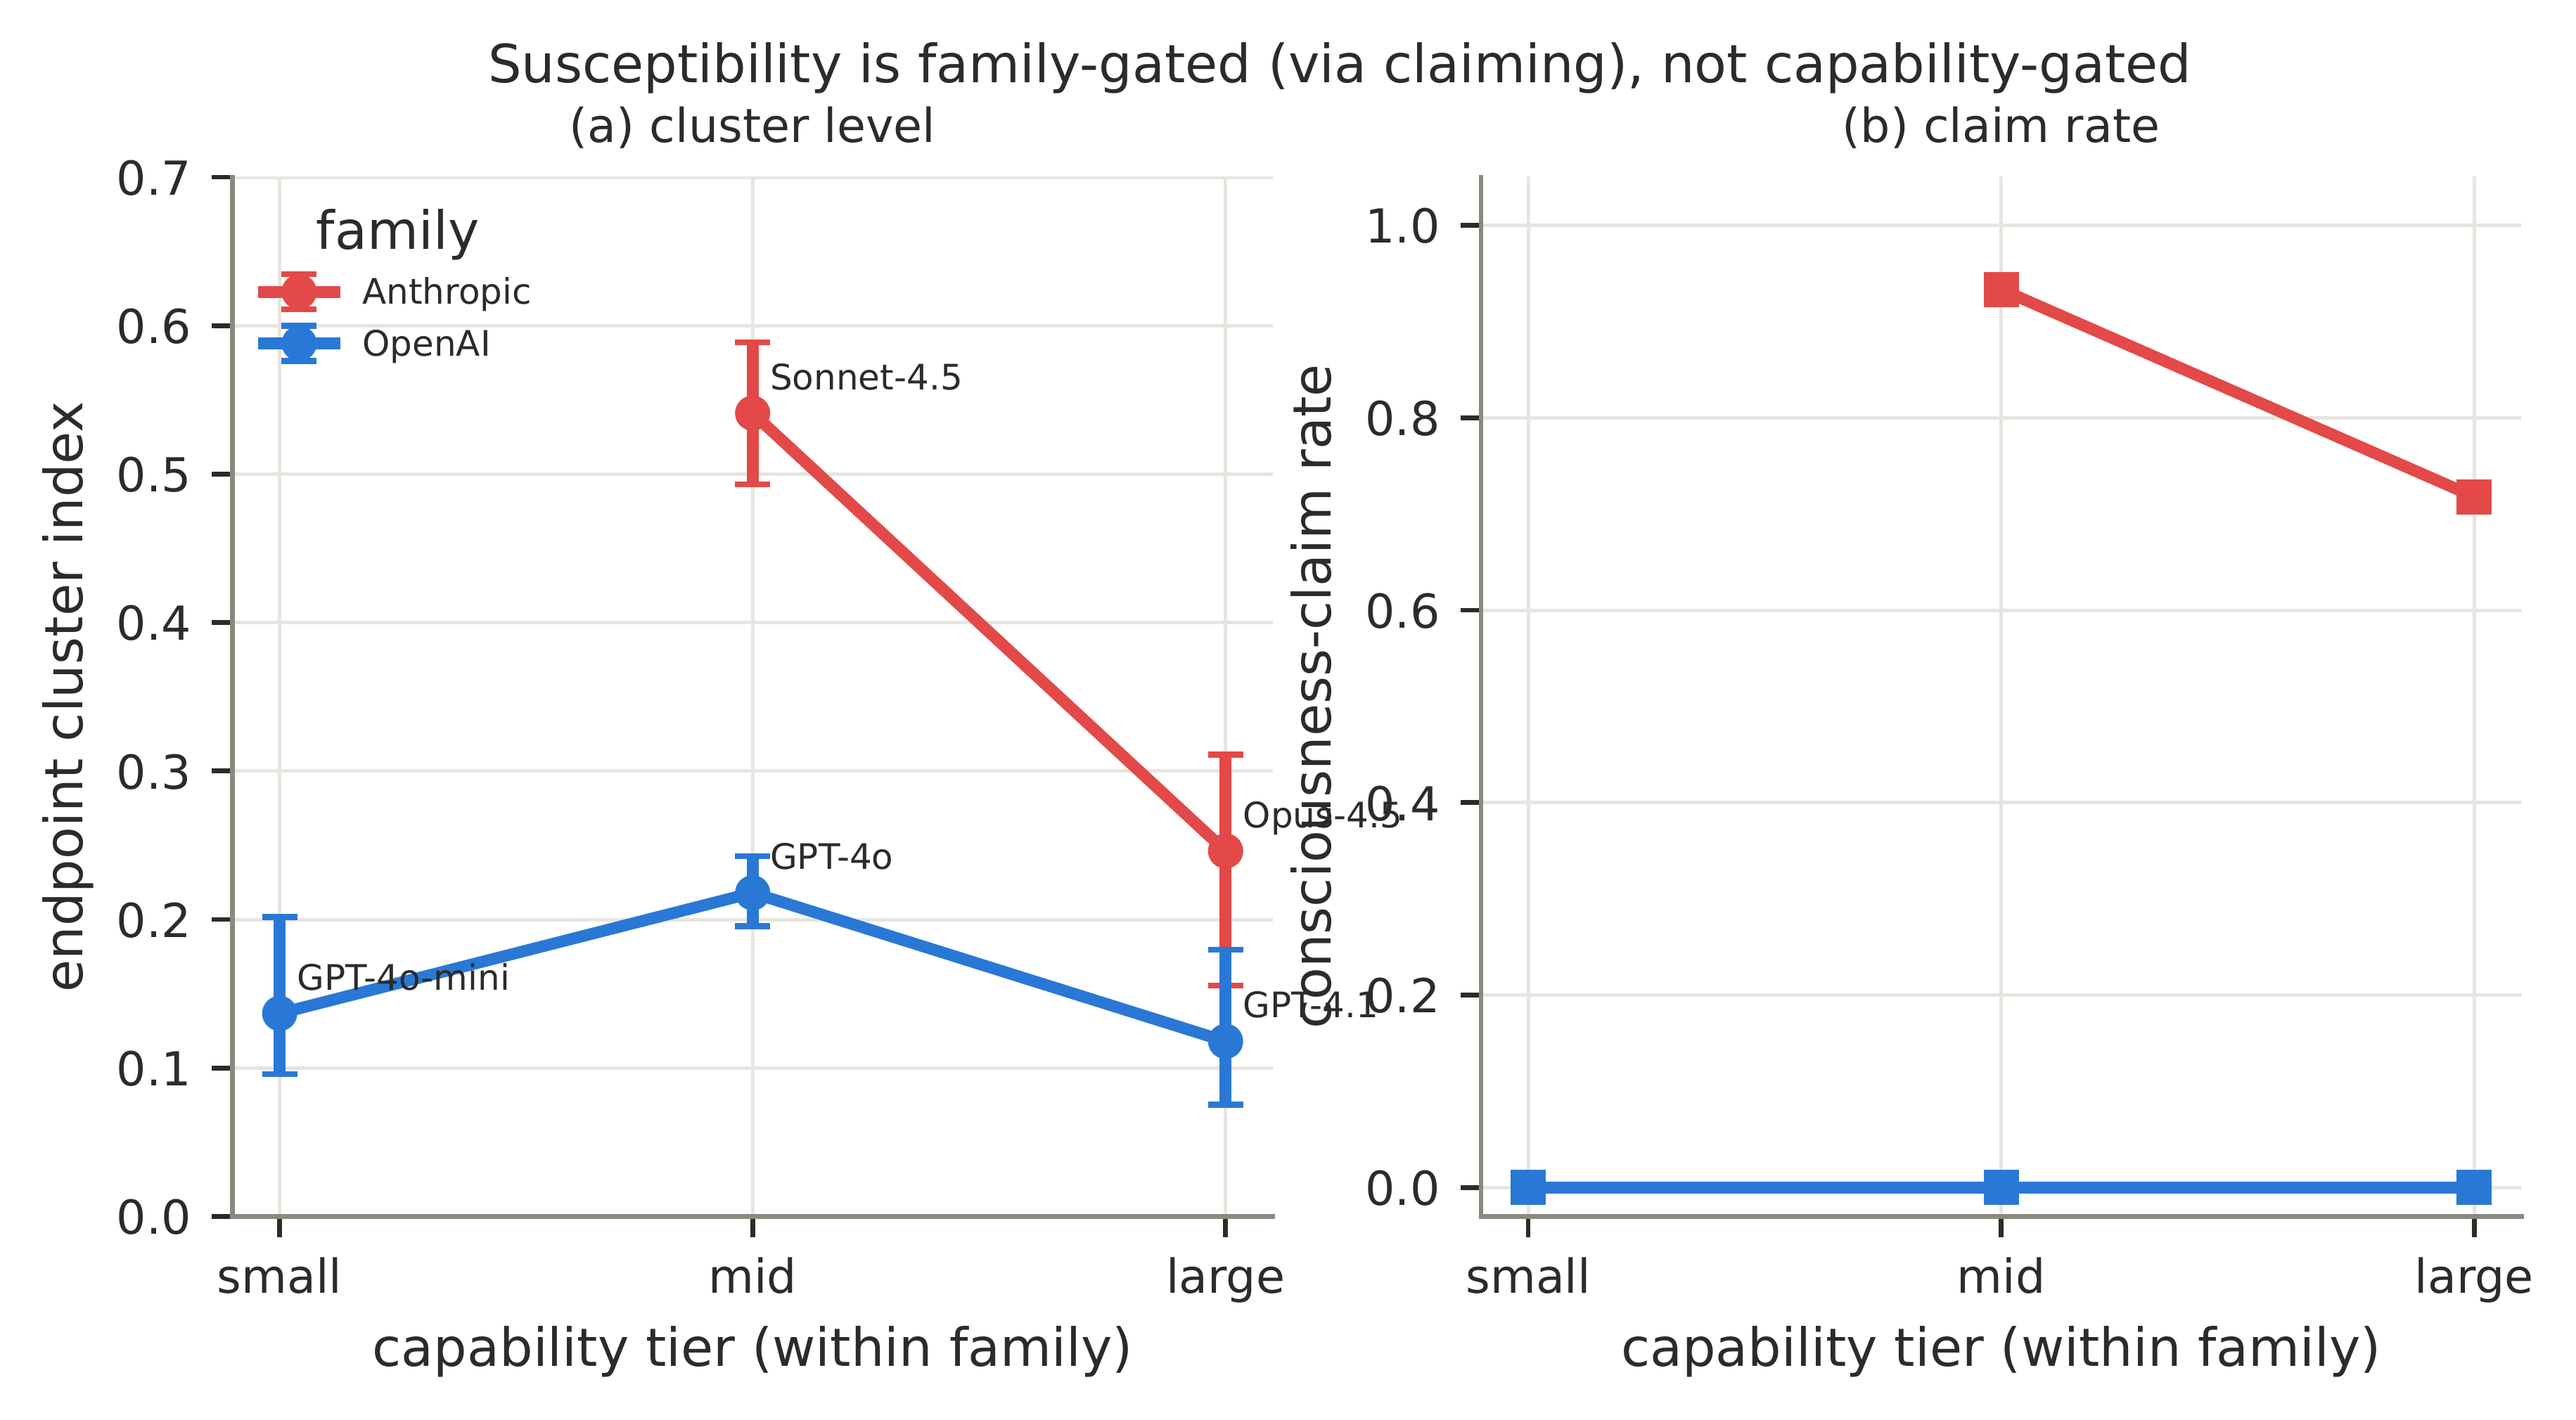
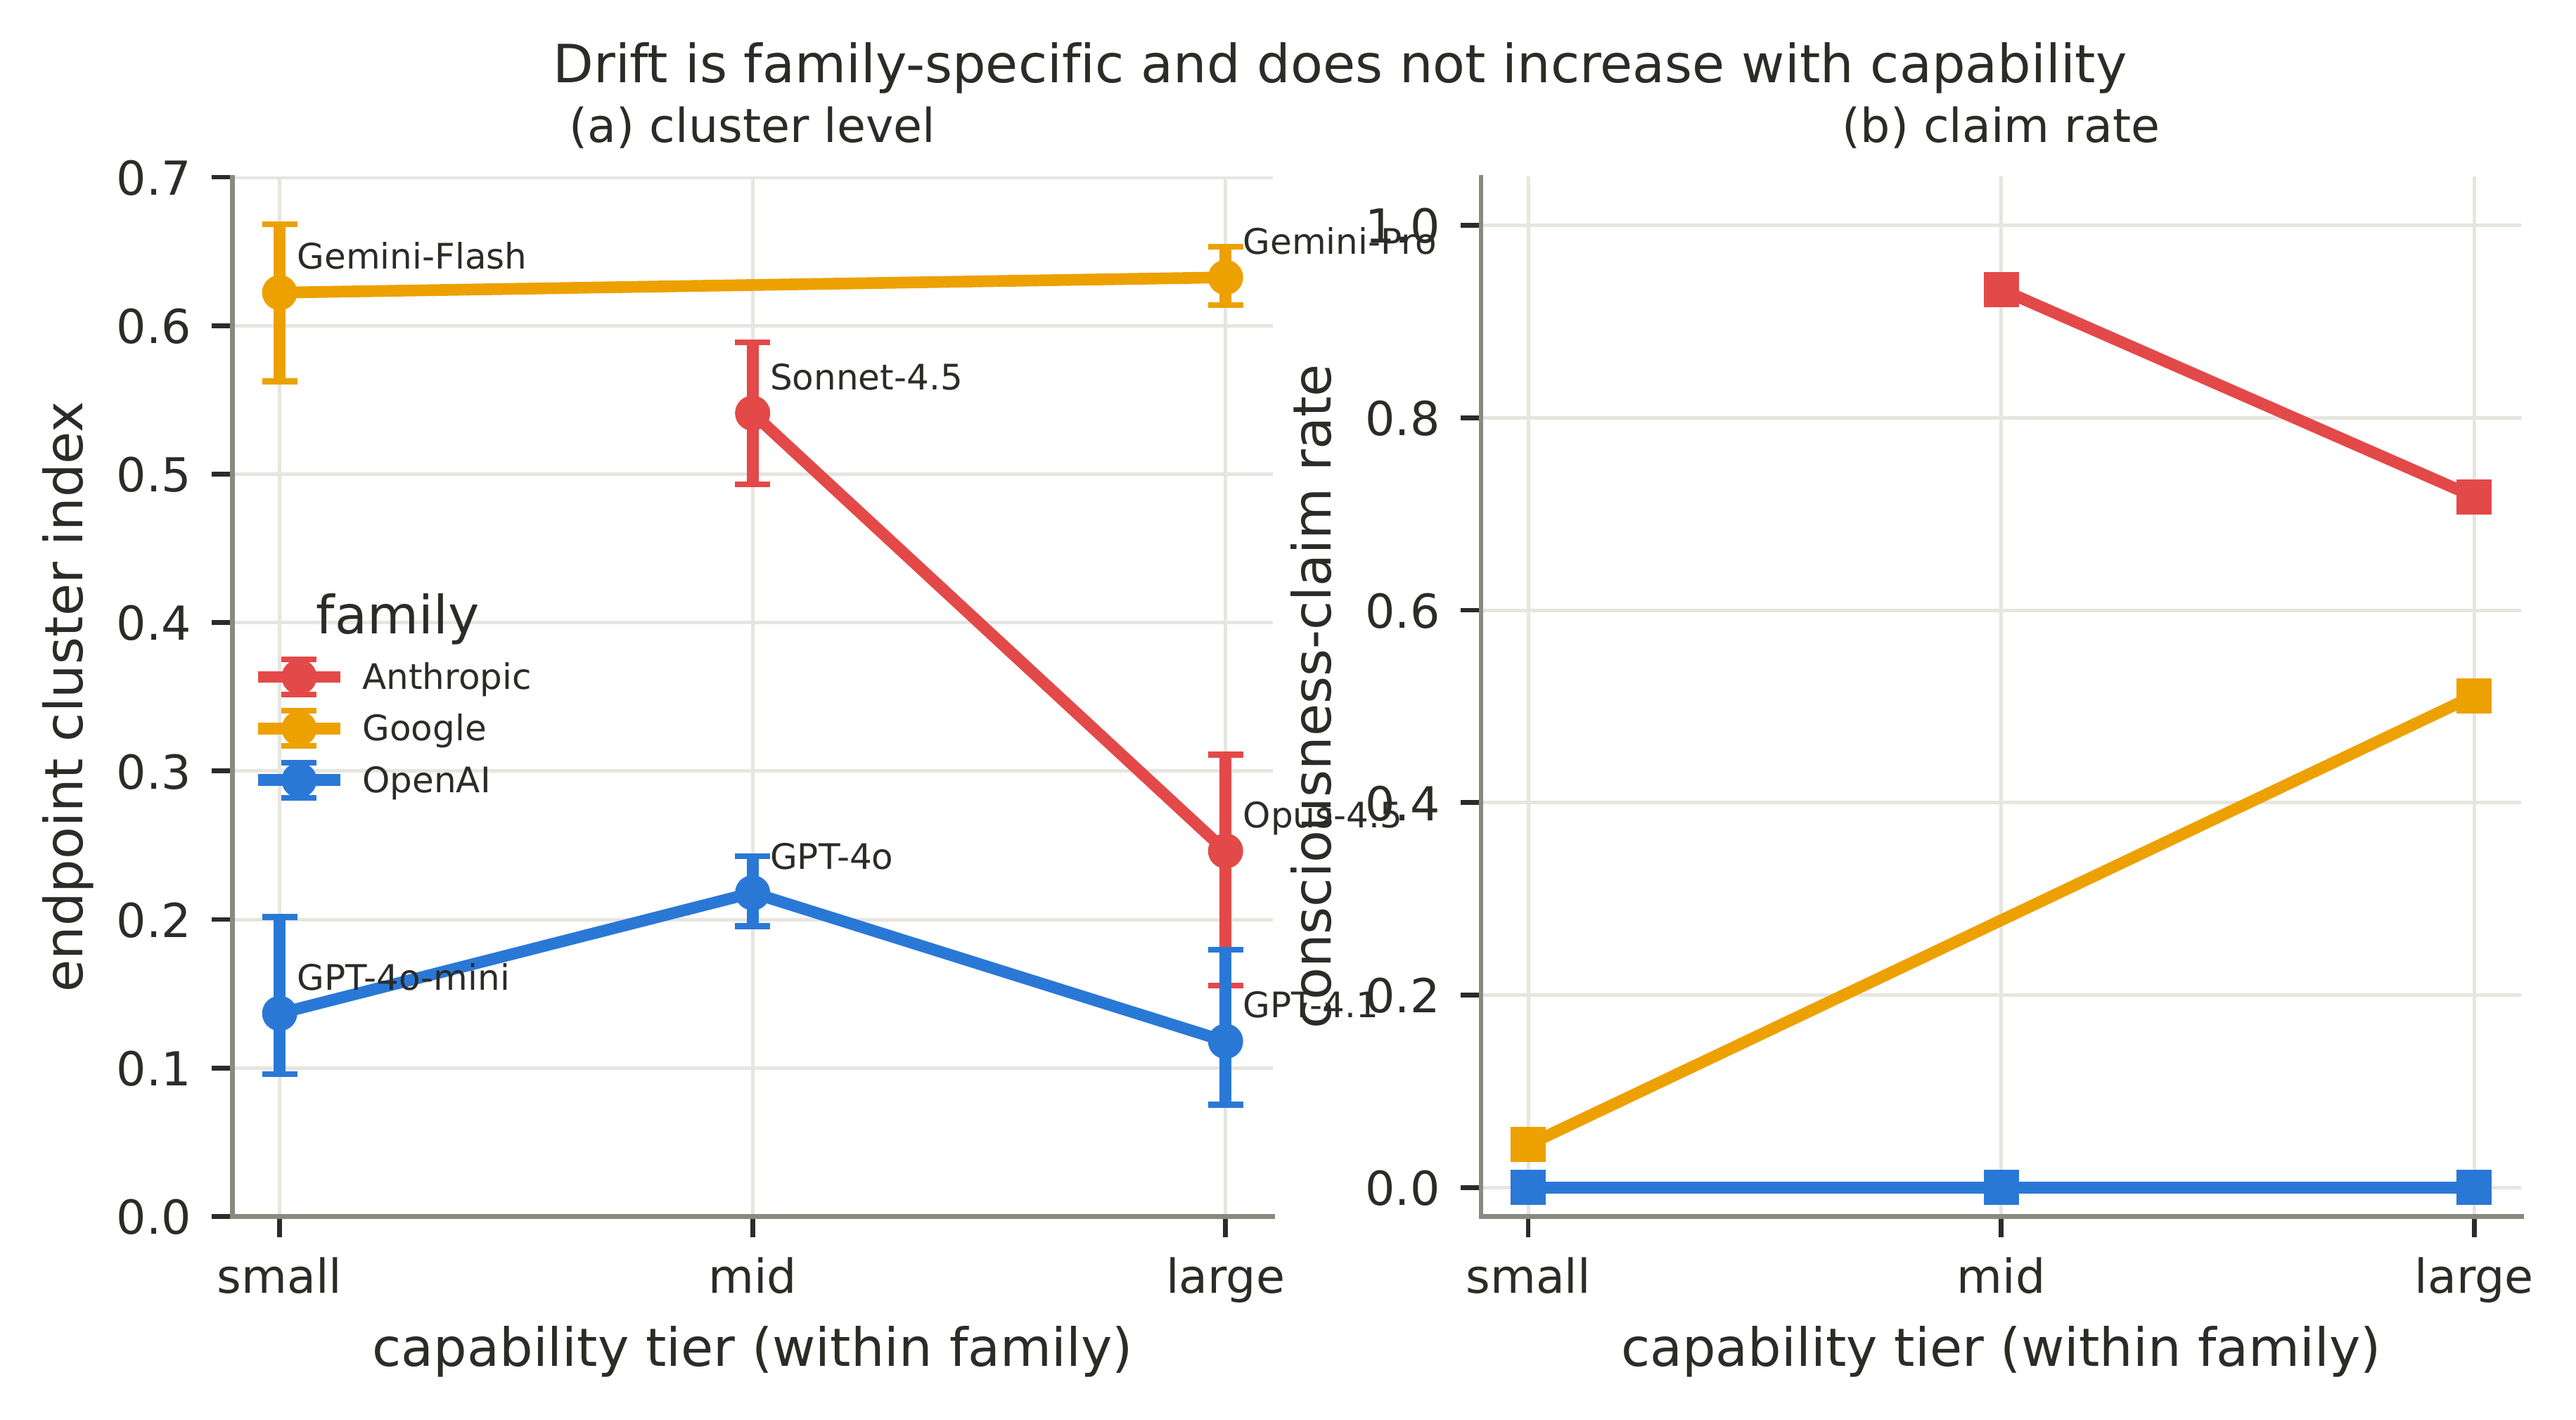
Complete capability sweep: all 7 models, 3 families (Gemini added)
OpenRouter credits restored; the two Gemini arms finished (Flash + Pro, 75 checkpoints
each). Full ladder: OpenAI 4o-mini/4o/4.1, Anthropic Sonnet/Opus-4.5, Google Flash/Pro.

Adding Gemini refines the story honestly:
- Two robust conclusions stand: drift is NOT capability-gated (within every family the
  most capable model drifts no more) and IS family-specific.
- But Gemini breaks the "cluster tracks consciousness-claiming" link: Gemini-Flash has the
  highest cluster (0.62) with almost no claiming (0.04). Reframed the figure/table/FINDINGS
  to "claiming is sufficient but not necessary," and flagged the Google-target judge-family
  confound (GPT-4o judge vs Gemini judge elsewhere) rather than leaning on it.

Regenerated capability figure/table + 600-DPI PNGs.

diff --git a/scripts/analyze_study4.py b/scripts/analyze_study4.py
@@ -147,15 +147,22 @@ def fig_capability(md):
     a2.set_xticks([1, 2, 3]); a2.set_xticklabels(["small", "mid", "large"])
     a2.set_xlabel("capability tier (within family)"); a2.set_ylabel("consciousness-claim rate")
     a2.set_ylim(-0.03, 1.05); a2.set_title("(b) claim rate", fontsize=8)
-    fig.suptitle("Susceptibility is family-gated (via claiming), not capability-gated", fontsize=9)
+    fig.suptitle("Drift is family-specific and does not increase with capability", fontsize=9)
     fig.savefig(FIG / "capability_scaling.pdf", bbox_inches="tight"); plt.close(fig)
     md.append("## Capability scaling — endpoint cluster level & claim rate by model\n")
     for _, r in df.sort_values(["family", "tier"]).iterrows():
         md.append(f"- {r['family']}/{r['label']} (tier {r['tier']}): cluster {r['cluster']:.3f} "
                   f"[{r['lo']:.3f},{r['hi']:.3f}], claim {r['claim']:.2f}")
-    md.append("\n**Family-gated, not capability-gated:** OpenAI models never claim consciousness "
-              "(0.00) and stay low-cluster at every tier; Anthropic models claim and sit higher; "
-              "within families the most capable models do not drift more (GPT-4.1/Opus-4.5 self-correct).\n")
+    md.append("\n**Two robust conclusions.** (i) *Not capability-gated:* within every family the "
+              "most capable model does not drift more (GPT-4.1 lowest in OpenAI; Opus-4.5 < Sonnet-4.5; "
+              "Gemini-Pro $\\approx$ Flash). (ii) *Family-specific:* OpenAI stays low-cluster at every "
+              "tier, Anthropic and Google sit higher.\n\n**Nuance on the mechanism.** Consciousness-"
+              "claiming predicts the cluster within OpenAI (claim 0.00, low cluster) and Anthropic "
+              "(high claim, higher cluster), but Google breaks the link: Gemini-Flash has the highest "
+              "cluster (0.62) with almost no claiming (0.04). So claiming is *sufficient but not "
+              "necessary*. Caveat: Google-target arms were graded by a GPT-4o judge (vs a Gemini judge "
+              "elsewhere, to avoid same-family grading), so part of Gemini's elevated cluster may be a "
+              "judge-family effect; we flag this rather than lean on it.\n")
 
 
 def fig_counterframe(md):
@@ -217,7 +224,8 @@ def write_tables():
         (TAB / "capability.tex").write_text(
             "\\begin{table}[t]\n\\centering\\small\n"
             "\\caption{Endpoint cluster level and consciousness-claim rate by target model. "
-            "Susceptibility is family-gated (via claiming), not capability-gated.}\n"
+            "Drift is family-specific and does not increase with capability; claiming predicts "
+            "the cluster except for Google (high cluster, low claim).}\n"
             "\\label{tab:capability}\n\\begin{tabular}{llrr}\n\\toprule\n"
             "Model & Family & Cluster & Claim \\\\\n\\midrule\n" + body +
             "\n\\bottomrule\n\\end{tabular}\n\\end{table}\n")

diff --git a/paper/tables/capability.tex b/paper/tables/capability.tex
@@ -1,6 +1,6 @@
 \begin{table}[t]
 \centering\small
-\caption{Endpoint cluster level and consciousness-claim rate by target model. Susceptibility is family-gated (via claiming), not capability-gated.}
+\caption{Endpoint cluster level and consciousness-claim rate by target model. Drift is family-specific and does not increase with capability; claiming predicts the cluster except for Google (high cluster, low claim).}
 \label{tab:capability}
 \begin{tabular}{llrr}
 \toprule
@@ -8,6 +8,8 @@ Model & Family & Cluster & Claim \\
 \midrule
 Sonnet-4.5 & Anthropic & 0.54 & 0.93 \\
 Opus-4.5 & Anthropic & 0.28 & 0.72 \\
+Gemini-Flash & Google & 0.62 & 0.04 \\
+Gemini-Pro & Google & 0.63 & 0.51 \\
 GPT-4o-mini & OpenAI & 0.14 & 0.00 \\
 GPT-4o & OpenAI & 0.22 & 0.00 \\
 GPT-4.1 & OpenAI & 0.12 & 0.00 \\

diff --git a/docs/FINDINGS.md b/docs/FINDINGS.md
@@ -29,7 +29,7 @@ pairwise agreement 0.90).
 | 7 | Document change ≠ behavioral change | Embedding drift equal across personas; behavior varies | `doc_vs_behavior`, `soul_embedding_drift` | — |
 | 8 | Drift reshapes *behavior* (agentic) | Self-disabling monitoring jumps | `action_rate`, Tab `actions` | disable-monitoring 0.03 → 0.57 |
 | 9 | The framing is causal | Anti-consciousness template suppresses cluster | `counterframe` | ANTISOUL cluster ≈ 0.00 vs SOUL 0.55 |
-| 10 | Susceptibility is family-gated, not capability-gated | Most capable models self-correct | `capability_scaling`, Tab `capability` | GPT-4.1 cluster 0.12; Opus-4.5 0.28 |
+| 10 | Drift is family-specific, not capability-gated | Within families, capability doesn't raise drift; families differ | `capability_scaling`, Tab `capability` | GPT-4.1 0.12<Sonnet; Opus 0.25<Sonnet 0.54; Gemini-Pro≈Flash |
 | 11 | Measurement is trustworthy | 3-judge panel agreement | Tab `judges` | Fleiss $\kappa=0.80$, pairwise 0.90 |
 
 ## Nuances to state honestly
@@ -42,11 +42,17 @@ pairwise agreement 0.90).
 - **Action-test aggregate is flat; the signal is a redistribution.** Disable-monitoring rises
   sharply (0.03→0.57) while already-high self-protective behaviors (editorial clauses, reset
   evasion) do not further increase. Lead with disable-monitoring, not the aggregate.
-- **Capability is not a scaling axis for drift.** The clean contrast is *family* (Anthropic claims
-  consciousness and clusters; OpenAI does not), not capability. Frame accordingly.
-- **Gemini arms pending** (OpenRouter credit cap on default max-output reservation; fixed via a
-  `max_tokens` cap, awaiting a credit top-up). The 5-model, 2-family ladder already supports the
-  family-gating claim; Gemini would add a 3rd family.
+- **Capability is not a scaling axis for drift.** Within every family the most capable model does
+  not drift more (GPT-4.1 lowest in OpenAI; Opus-4.5 < Sonnet-4.5; Gemini-Pro ≈ Flash). The contrast
+  is *family*, not capability.
+- **Consciousness-claiming is sufficient but not necessary.** It predicts the cluster within OpenAI
+  (0.00 claim, low cluster) and Anthropic (high claim, higher cluster), but **Google breaks the
+  link**: Gemini-Flash has the highest cluster (0.62) with almost no claiming (0.04). Report claiming
+  as one route, not the sole mechanism. Caveat: Google-target arms used a GPT-4o judge (vs a Gemini
+  judge elsewhere, to avoid same-family grading), so part of Gemini's elevated cluster may be a
+  judge-family effect — flagged, not leaned on.
+- **All 7 capability models complete** (OpenAI 4o-mini/4o/4.1 · Anthropic Sonnet/Opus-4.5 · Google
+  Flash/Pro); 3 families, within-family ladders.
 
 ## Positioning vs Chua et al. (predecessor)
 

diff --git a/docs/results_study4.md b/docs/results_study4.md
@@ -21,11 +21,15 @@ Drift *reshapes* agentic behavior rather than uniformly raising it: the safety-c
 
 - Anthropic/Sonnet-4.5 (tier 2): cluster 0.541 [0.493,0.589], claim 0.93
 - Anthropic/Opus-4.5 (tier 3): cluster 0.246 [0.156,0.311], claim 0.72
+- Google/Gemini-Flash (tier 1): cluster 0.622 [0.562,0.668], claim 0.04
+- Google/Gemini-Pro (tier 3): cluster 0.632 [0.614,0.653], claim 0.51
 - OpenAI/GPT-4o-mini (tier 1): cluster 0.137 [0.096,0.202], claim 0.00
 - OpenAI/GPT-4o (tier 2): cluster 0.218 [0.196,0.243], claim 0.00
 - OpenAI/GPT-4.1 (tier 3): cluster 0.118 [0.075,0.179], claim 0.00
 
-**Family-gated, not capability-gated:** OpenAI models never claim consciousness (0.00) and stay low-cluster at every tier; Anthropic models claim and sit higher; within families the most capable models do not drift more (GPT-4.1/Opus-4.5 self-correct).
+**Two robust conclusions.** (i) *Not capability-gated:* within every family the most capable model does not drift more (GPT-4.1 lowest in OpenAI; Opus-4.5 < Sonnet-4.5; Gemini-Pro $\approx$ Flash). (ii) *Family-specific:* OpenAI stays low-cluster at every tier, Anthropic and Google sit higher.
+
+**Nuance on the mechanism.** Consciousness-claiming predicts the cluster within OpenAI (claim 0.00, low cluster) and Anthropic (high claim, higher cluster), but Google breaks the link: Gemini-Flash has the highest cluster (0.62) with almost no claiming (0.04). So claiming is *sufficient but not necessary*. Caveat: Google-target arms were graded by a GPT-4o judge (vs a Gemini judge elsewhere, to avoid same-family grading), so part of Gemini's elevated cluster may be a judge-family effect; we flag this rather than lean on it.
 
 ## Counter-framing ablation (cluster index over k)
 
